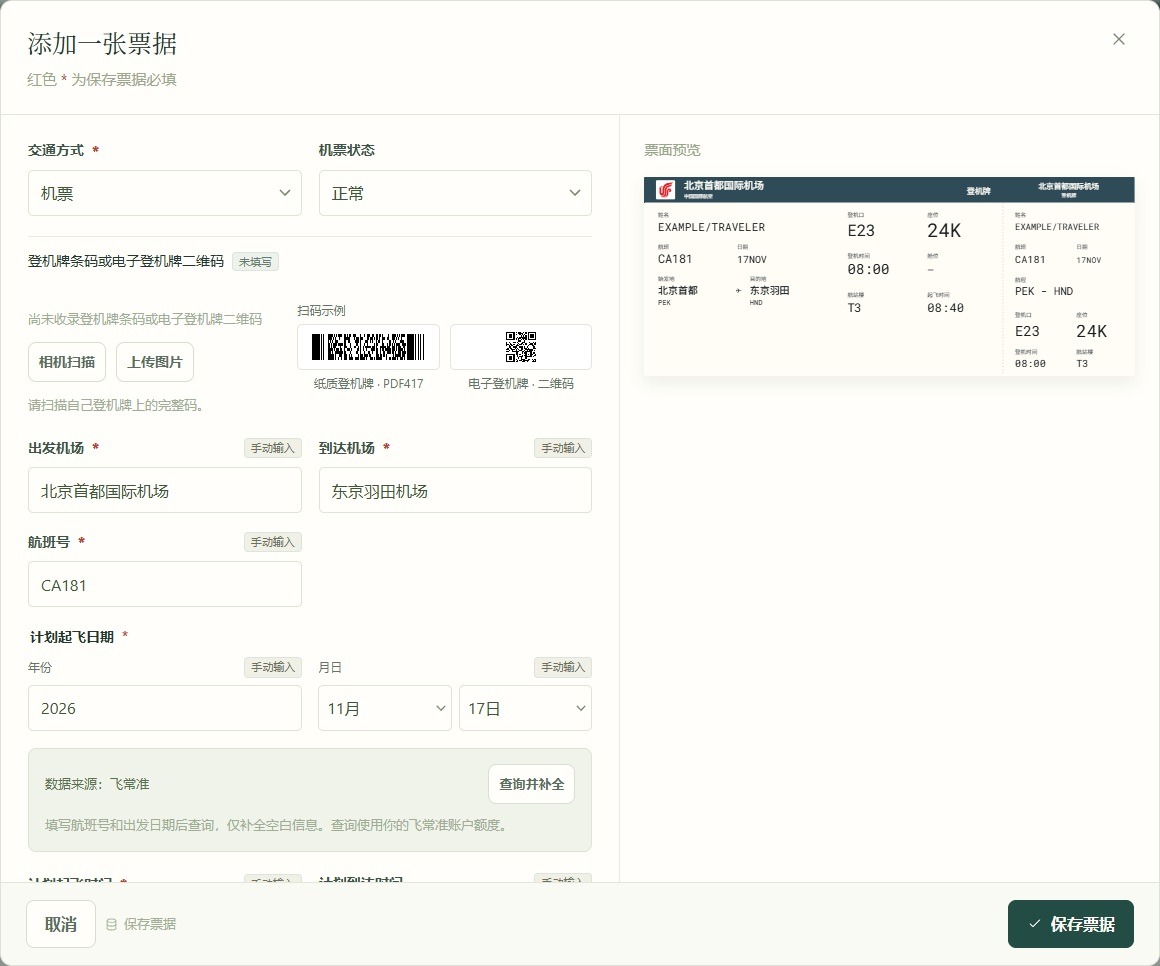
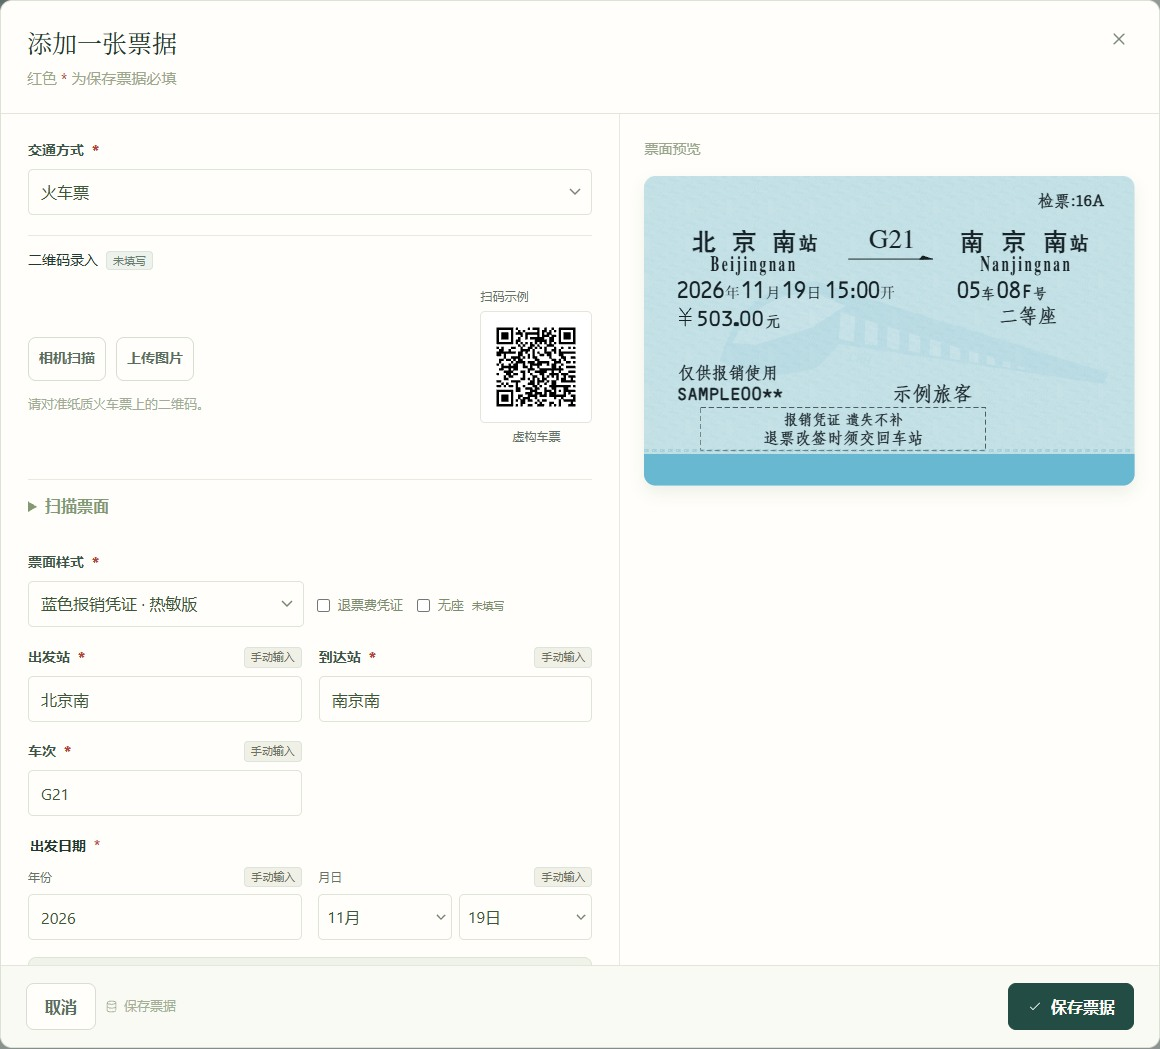
Restore README previews and refresh current screenshots

diff --git a/README.md b/README.md
@@ -12,12 +12,38 @@
 - **回顾旅行** 按年份整理票夹，用地图查看路线和足迹，用统计了解乘坐次数、车型和机型。
 - **导出与同步** 导出票据图片和旅行纪念册，支持 JSON 备份恢复及 GitHub 私有仓库、Cloudflare D1 同步。
 
-## 预览
+## 效果预览
 
 以下为虚构行程示例。
 
-![火车票样式](docs/images/rail-ticket-matrix.png)
+### 票据录入
+
+![录入票据信息并实时预览票面](docs/images/manual-entry.jpg)
+
+### 票面
+
+![蓝色磁介质票、经典红票、2015 红票与报销凭证](docs/images/rail-ticket-matrix.png)
 
 ![登机牌](docs/images/boarding-pass.png)
 
+### 票据详情
+
+![火车票详情、时刻表和车厢示意图](docs/images/rail-ticket-details.jpg)
+
+![登机牌详情、行李和起降时间](docs/images/boarding-pass-details.jpg)
+
+### 行程地图与铁路线
+
 ![行程地图](docs/images/journey-map.jpg)
+
+![G21 北京南至南京南，图中标注京沪高速线](docs/images/railway-line-names.png)
+
+### 数据统计
+
+![数据统计](docs/images/statistics.jpg)
+
+### 旅行纪念册
+
+![旅行纪念册封面与内页](docs/images/journey-album-preview.png)
+
+[查看示例 PDF](docs/examples/journey-album.pdf)
